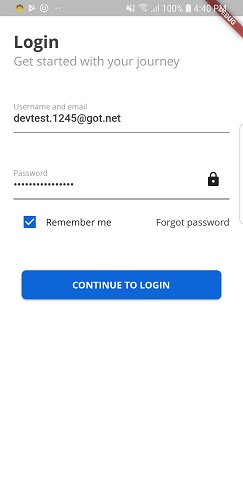
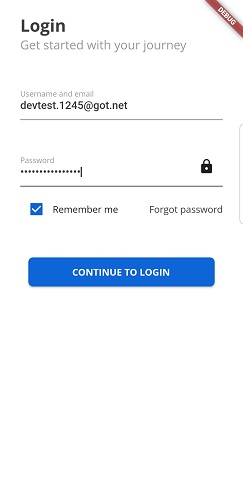
modified screenshot

diff --git a/lib/view/login/login_page.dart b/lib/view/login/login_page.dart
@@ -15,7 +15,7 @@ class _LoginPageState extends State<LoginPage> {
         child: Container(
           decoration: BoxDecoration(color: Colors.white),
           child: Padding(
-            padding: const EdgeInsets.all(20.0),
+            padding: const EdgeInsets.symmetric(horizontal: 30, vertical: 20),
             child: Column(
               crossAxisAlignment: CrossAxisAlignment.start,
               children: <Widget>[_appBar(), Expanded(child: _scrollablePart())],
@@ -29,7 +29,7 @@ class _LoginPageState extends State<LoginPage> {
   Widget _scrollablePart() {
     return SingleChildScrollView(
       child: Padding(
-        padding: const EdgeInsets.only(top: 15.0),
+        padding: const EdgeInsets.only(top: 20.0),
         child: Column(
           
           children: <Widget>[
